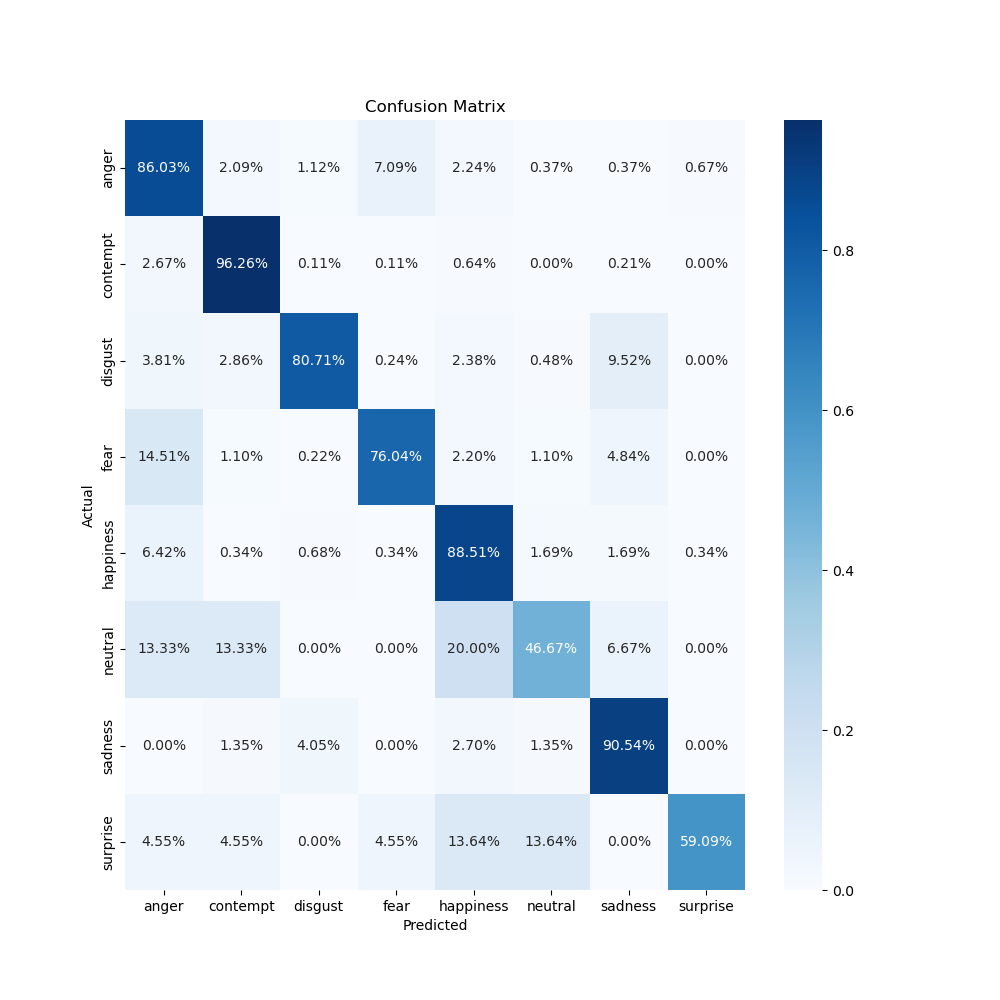
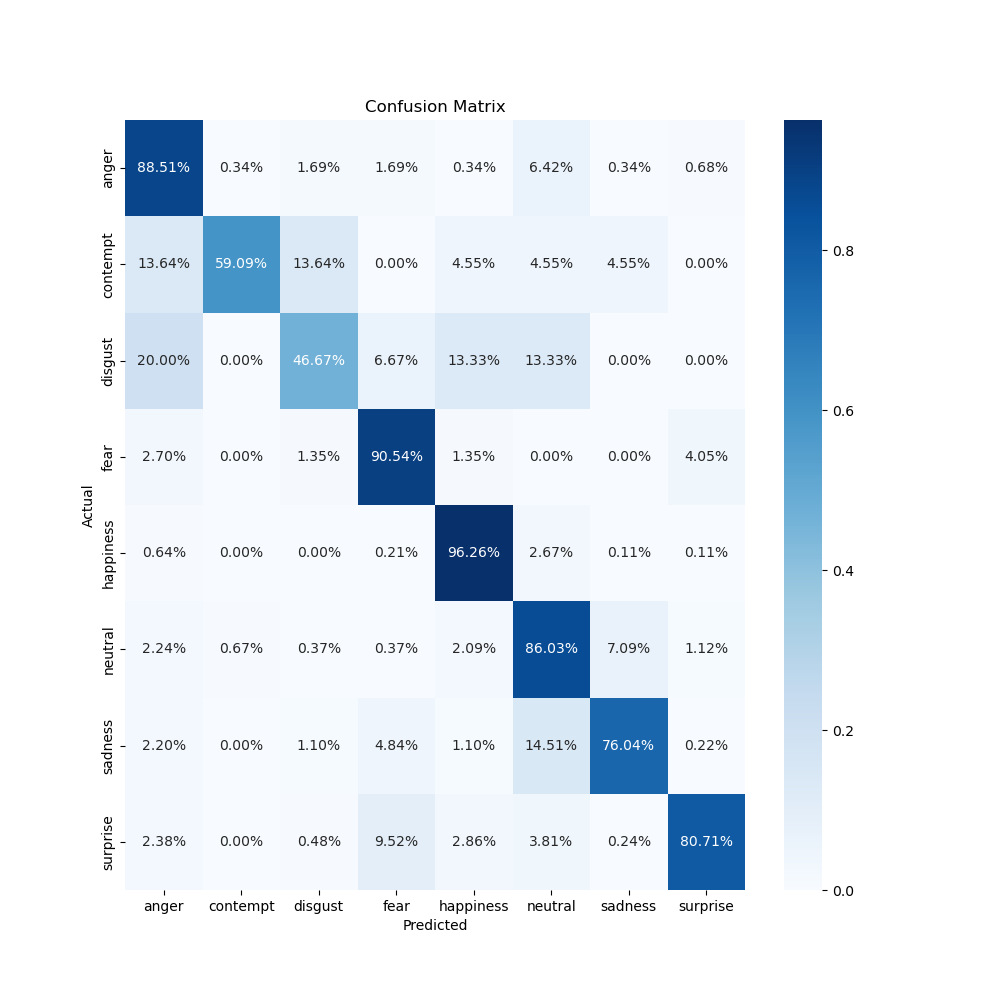
Bug fix while computing the conflusion matrix, it was not sorted properly

diff --git a/evaluate.py b/evaluate.py
@@ -16,6 +16,7 @@ from lib.datesnet import DatesNet
 from config.datesnet_config import Config as cfg
 from data.data_processing import DataProcessing
 from data.dataset_loader import FERPlusDatasetLoader
+from lib.face_det.detect_face_cv import FaceDetector
 
 from utils.dnn_utils import EvaluationMetric
 from utils.evaluation_metrics import kl_divergence, compute_accuracy, compute_metrics, compute_confusion_matrix
@@ -63,6 +64,7 @@ def dump_into_file(kl_div, accuracy, precision, recall, f1, class_names, file_pa
 def test():
     # Load the model
     model = DatesNet(cfg=cfg)
+    face_detector = FaceDetector()
 
     # ============== Load the model weights ================
     if not os.path.exists(cfg.TestConfig.checkpoint_name):
@@ -87,18 +89,21 @@ def test():
     losses = EvaluationMetric()
     accuracy = EvaluationMetric()
 
-    if cfg.TestConfig.use_single_image:
+    if cfg.TestConfig.use_image:
         assert len(cfg.TestConfig.class_names) != 0, "You need to use the class names if you want to use a single image"
         class_names = cfg.TestConfig.class_names
 
         in_images = list()
         for img_file_name in cfg.TestConfig.image_file_name:
-            gray_image = cv2.imread(img_file_name, cv2.IMREAD_GRAYSCALE)
+            rgb_image = cv2.imread(img_file_name, cv2.IMREAD_UNCHANGED)
+            gray_image = cv2.cvtColor(rgb_image, cv2.COLOR_RGB2GRAY)
+            in_image = gray_image
+            # in_image = face_detector.get_aligned_face(gray_image)
             # ============= Pre-processing steps kick-in ==============
             # Resize the image to input image size (48 X 48)
-            gray_image = cv2.resize(gray_image, cfg.DatasetConfig.image_shape, interpolation=cv2.INTER_AREA)
+            in_image = cv2.resize(in_image, cfg.DatasetConfig.image_shape, interpolation=cv2.INTER_AREA)
             # Do histogram equalization over the iage
-            eq_image = cv2.equalizeHist(gray_image)
+            eq_image = cv2.equalizeHist(in_image)
             # Normalize the image into [0, 1]
             normed_image = cv2.normalize(eq_image, None, 0, 1.0, cv2.NORM_MINMAX, dtype=cv2.CV_32F)
             # Convert 1-channel image to 3-channels image
@@ -135,7 +140,8 @@ def test():
         batch_size = cfg.TestConfig.batch_size if cfg.TestConfig.batch_size > 0 else len(test_dataset)
         test_dataset_loader = DataLoader(test_dataset, batch_size=batch_size, shuffle=False, num_workers=16, pin_memory=True)
         # class_names = test_dataset.get_labels_name()
-        class_names = ['anger', 'contempt', 'disgust', 'fear', 'happiness', 'neutral', 'sadness', 'surprise']
+        class_ids = np.argsort(cfg.TestConfig.class_names)
+        class_names = np.sort(cfg.TestConfig.class_names)
 
         # ========== Evaluate the model on the test dataset ============
         with torch.no_grad():
@@ -162,7 +168,7 @@ def test():
             precision, recall, f1 = compute_metrics(predictions=predictions, targets=targets)
 
             # Compute confusion matrix
-            conf_mat = compute_confusion_matrix(predictions=predictions, targets=targets)
+            conf_mat = compute_confusion_matrix(predictions=predictions, targets=targets, labels=class_ids)
             plot_confusion_matrix(confusion_mat=conf_mat, class_names=class_names)
 
             # Print evaluation metrics

diff --git a/config/datesnet_config.py b/config/datesnet_config.py
@@ -58,8 +58,9 @@ class Config:
         pin_memory: bool = True
 
     class TestConfig:
-        checkpoint_name: str = r'checkpoints/datesnet_model.pth'
+        checkpoint_name: str = r'checkpoints/datesnet_model_datesnet.pth'
         batch_size = 512
-        use_single_image: bool = False
+        use_image: bool = False
         image_file_name: list = list([r'demo/image_1.png', r'demo/image_2.png', r'demo/image_3.png'])
         class_names: list = list(['neutral', 'happiness', 'surprise', 'sadness', 'anger', 'disgust', 'fear', 'contempt'])
+        # class_id: list = list(['neutral', 'happiness', 'surprise', 'sadness', 'anger', 'disgust', 'fear', 'contempt'])
